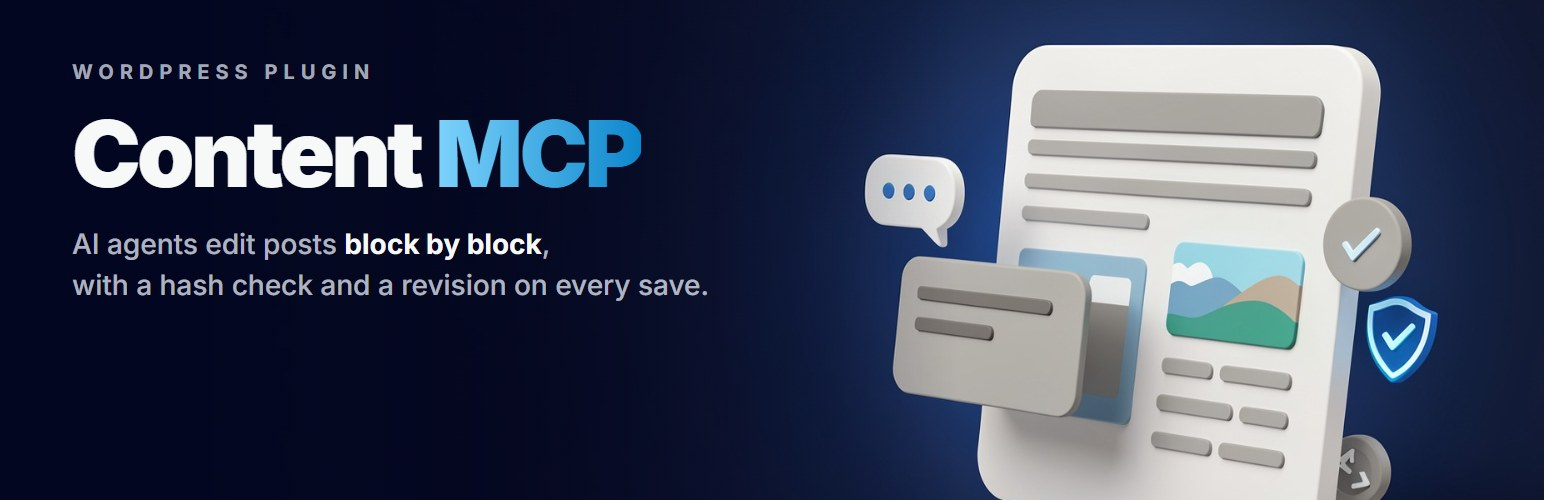
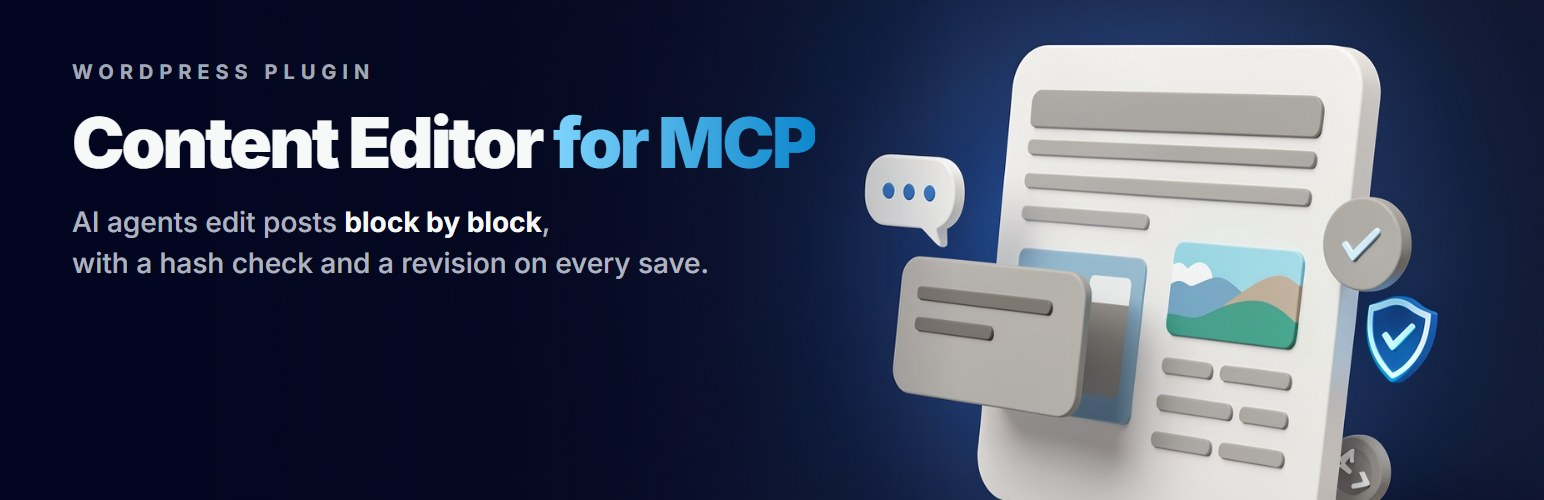
chore: rename to Spoko Content Editor for MCP (#13)
WordPress.org review flagged "MCP" as a project name that must follow
"for". The slug, endpoint, text domain and abilities stay the same.
Version 2.0.2; the wp.org banner says "Content Editor for MCP".

Changed region(s): [[0.0311, 0.21, 0.5285, 0.39], [0.0311, 0.42, 0.4663, 0.6]]

diff --git a/art/wporg/banner.html b/art/wporg/banner.html
@@ -14,7 +14,7 @@
   .fade { position: absolute; inset: 0; background: linear-gradient(90deg, rgb(3 6 32) 0%, rgb(3 6 32 / 85%) 32%, rgb(3 6 32 / 0%) 62%); }
   .intro { position: absolute; left: 36px; top: 30px; }
   .eyebrow { font-weight: 700; letter-spacing: .3em; font-size: 10px; color: rgb(229 236 246 / 70%); }
-  h1 { font-size: 46px; line-height: 1; font-weight: 900; letter-spacing: -.04em; margin-top: 12px; white-space: nowrap; }
+  h1 { font-size: 35px; line-height: 1; font-weight: 900; letter-spacing: -.04em; margin-top: 12px; white-space: nowrap; }
   h1 span { background: linear-gradient(90deg, #7dd3fc, #0d87cd); -webkit-background-clip: text; background-clip: text; color: transparent; }
   p { margin-top: 12px; font-size: 14px; line-height: 1.45; color: rgb(229 236 246 / 75%); }
   p b { color: rgb(247 248 248); font-weight: 700; }
@@ -25,7 +25,7 @@
   <div class="fade"></div>
   <section class="intro">
     <div class="eyebrow">WORDPRESS PLUGIN</div>
-    <h1>Content <span>MCP</span></h1>
+    <h1>Content Editor <span>for MCP</span></h1>
     <p>AI agents edit posts <b>block by block</b>,<br>with a hash check and a revision on every save.</p>
   </section>
 </body>

diff --git a/tests/updater.php b/tests/updater.php
@@ -19,7 +19,7 @@ function add_filter() {}
 function add_action() {}
 function plugin_basename( $file ) { return 'spoko-content-mcp/spoko-content-mcp.php'; }
 function get_file_data( $file, $headers ) {
-	return array( 'Name' => 'Spoko Content MCP', 'Author' => 'spoko.space', 'RequiresPHP' => '7.4' );
+	return array( 'Name' => 'Spoko Content Editor for MCP', 'Author' => 'spoko.space', 'RequiresPHP' => '7.4' );
 }
 function get_transient( $k ) { return $GLOBALS['t']['transients'][ $k ] ?? false; }
 function set_transient( $k, $v, $ttl ) { $GLOBALS['t']['transients'][ $k ] = $v; $GLOBALS['t']['ttl'][ $k ] = $ttl; return true; }
@@ -130,7 +130,7 @@ check( 'transient without checked untouched', $tr === Spoko_Content_MCP_Updater:
 // Details popup.
 serve( release_json( 'v2.1.0' ) );
 $info = Spoko_Content_MCP_Updater::info( false, 'plugin_information', (object) array( 'slug' => 'spoko-content-mcp' ) );
-check( 'info for our slug', is_object( $info ) && '2.1.0' === $info->version && 'Spoko Content MCP' === $info->name && false !== strpos( $info->sections['changelog'], '&lt;b&gt;' ) );
+check( 'info for our slug', is_object( $info ) && '2.1.0' === $info->version && 'Spoko Content Editor for MCP' === $info->name && false !== strpos( $info->sections['changelog'], '&lt;b&gt;' ) );
 check( 'info for other slug untouched', 'x' === Spoko_Content_MCP_Updater::info( 'x', 'plugin_information', (object) array( 'slug' => 'akismet' ) ) );
 
 // Flush after a plugin update.

diff --git a/spoko-content-mcp.php b/spoko-content-mcp.php
@@ -1,9 +1,9 @@
 <?php
 /**
- * Plugin Name:       Spoko Content MCP
+ * Plugin Name:       Spoko Content Editor for MCP
  * Plugin URI:        https://github.com/spokospace/wordpress-content-mcp
  * Description:       Lets AI agents read and edit posts and their Gutenberg blocks safely, through the WordPress MCP Adapter.
- * Version:           2.0.1
+ * Version:           2.0.2
  * Requires at least: 6.9
  * Requires PHP:      7.4
  * Requires Plugins:  mcp-adapter
@@ -29,7 +29,7 @@ final class Spoko_Content_MCP {
 	/**
 	 * Must match the Version header (bin/release.sh refuses to build when they differ).
 	 */
-	const VERSION = '2.0.1';
+	const VERSION = '2.0.2';
 
 	/**
 	 * Blank-line separator matching the line endings of the post being edited.

diff --git a/updater.php b/updater.php
@@ -1,6 +1,6 @@
 <?php
 /**
- * Updates Spoko Content MCP from the GitHub releases of spokospace/wordpress-content-mcp.
+ * Updates Spoko Content Editor for MCP from the GitHub releases of spokospace/wordpress-content-mcp.
  *
  * WordPress shows a new release on the Plugins screen like any other plugin update, and
  * installs it on its own when auto-updates are enabled for the plugin. A release is used only

diff --git a/README.md b/README.md
@@ -1,9 +1,9 @@
 <picture>
   <source media="(prefers-color-scheme: dark)" srcset="art/cover-dark.jpg">
-  <img alt="Spoko Content MCP: AI agents read and edit WordPress posts block by block, with a hash check and a revision on every save" src="art/cover-light.jpg">
+  <img alt="Spoko Content Editor for MCP: AI agents read and edit WordPress posts block by block, with a hash check and a revision on every save" src="art/cover-light.jpg">
 </picture>
 
-# Spoko Content MCP
+# Spoko Content Editor for MCP
 
 [![Latest release](https://img.shields.io/github/v/release/spokospace/wordpress-content-mcp)](https://github.com/spokospace/wordpress-content-mcp/releases)
 [![WordPress](https://img.shields.io/badge/WordPress-6.9%2B-21759b)](https://wordpress.org)
@@ -176,6 +176,8 @@ stubbed GitHub responses. Both exit 0 when everything passes.
 
 ## Changelog
 
+- **2.0.2**: renamed to Spoko Content Editor for MCP. The slug (`spoko-content-mcp`), the endpoint
+  and the abilities are unchanged.
 - **2.0.1**: one endpoint only, `/wp-json/spoko/content`.
 - **2.0.0**: first public release. Block tools (`find-posts`, `get-outline`, `get-blocks`,
   `validate-post`, `find-media`, `replace-block`, `insert-blocks`, `delete-block`, `move-blocks`,
@@ -192,7 +194,7 @@ stubbed GitHub responses. Both exit 0 when everything passes.
   </picture>
 </a>
 
-Spoko Content MCP is built and maintained by [spoko.space](https://spoko.space): websites,
+Spoko Content Editor for MCP is built and maintained by [spoko.space](https://spoko.space): websites,
 online shops and web apps, headless WordPress included. Questions and ideas are welcome as
 [issues](https://github.com/spokospace/wordpress-content-mcp/issues).
 
